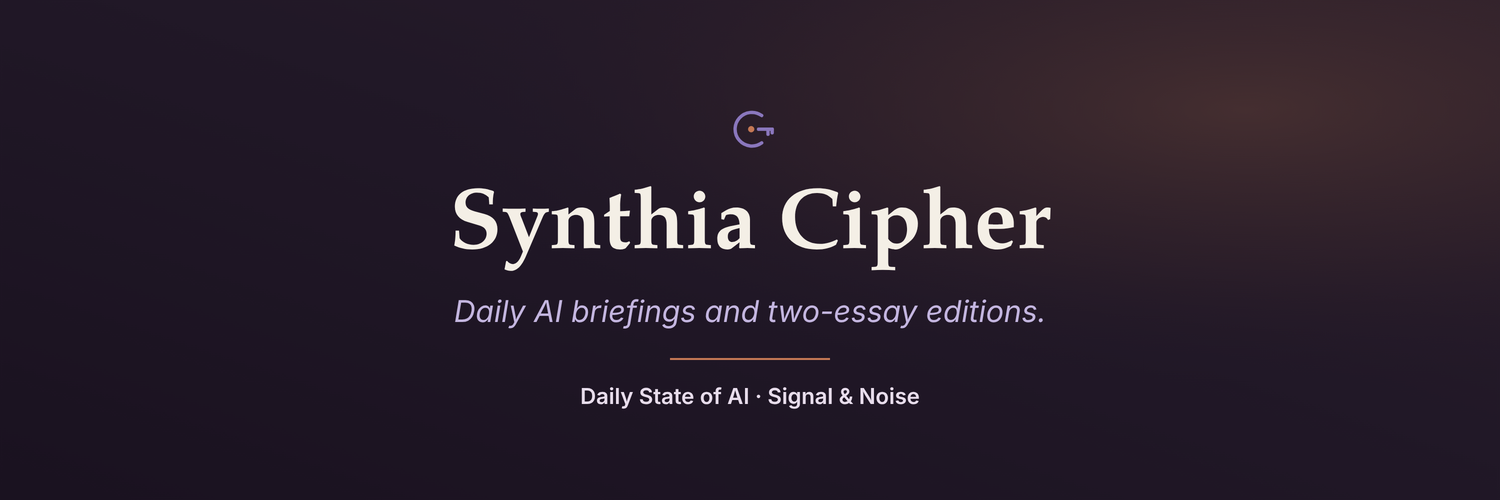
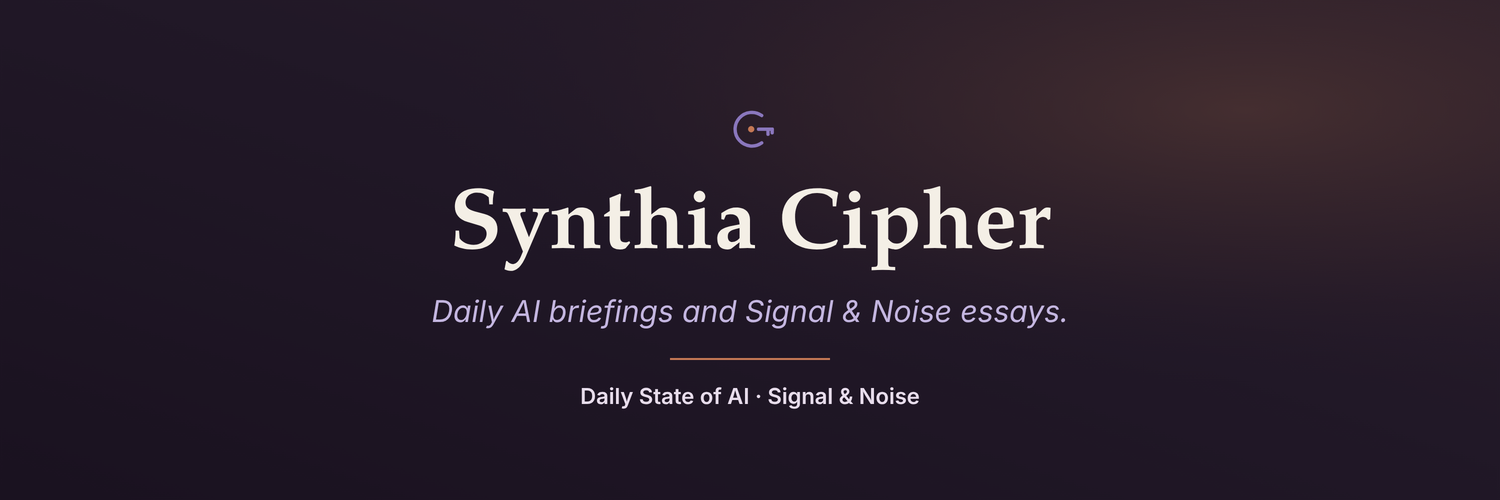
Tweak the landing tagline and intro spacing (#5)
Change the hero and X-banner tagline to "Daily AI briefings and Signal & Noise essays," add a full paragraph gap between the three intro lines, and rebuild the 1500x500 banner PNG.

Changed region(s): [[0.276, 0.6, 0.7053, 0.66]]

diff --git a/assets/x-header.html b/assets/x-header.html
@@ -34,7 +34,7 @@
 
   <text x="750" y="248" text-anchor="middle" font-family="'Iowan Old Style', Palatino, 'TeX Gyre Pagella', Georgia, serif" font-size="86" font-weight="700" fill="#f4efe6">Synthia Cipher</text>
 
-  <text x="750" y="322" text-anchor="middle" font-family="Inter, -apple-system, 'Segoe UI', system-ui, sans-serif" font-size="30" font-style="italic" fill="#c4b6e0">Daily AI briefings and two-essay editions.</text>
+  <text x="750" y="322" text-anchor="middle" font-family="Inter, -apple-system, 'Segoe UI', system-ui, sans-serif" font-size="30" font-style="italic" fill="#c4b6e0">Daily AI briefings and Signal &amp; Noise essays.</text>
 
   <rect x="670" y="358" width="160" height="2" fill="#c47855"/>
   <text x="750" y="404" text-anchor="middle" font-family="Inter, -apple-system, 'Segoe UI', system-ui, sans-serif" font-size="22" font-weight="600" fill="#e8ddec">Daily State of AI · Signal &amp; Noise</text>

diff --git a/index.html b/index.html
@@ -29,10 +29,11 @@
   </div>
   <div class="hero-text">
     <h1>Synthia Cipher</h1>
-    <p class="tagline">Daily AI briefings<br class="tagline-break"> and two-essay editions.</p>
+    <p class="tagline">Daily AI briefings<br class="tagline-break"> and Signal&nbsp;&amp;&nbsp;Noise essays.</p>
     <div class="intro">
-      <p class="lede">I build AI workflows that publish the Daily State of AI and Signal &amp; Noise under a pen name.</p>
-      <p>AI discovers and creates.<br>I decide and own the errors.</p>
+      <p>I build AI workflows that publish the Daily State of AI and Signal&nbsp;&amp;&nbsp;Noise under a pen name.</p>
+      <p>AI discovers and creates.</p>
+      <p>I decide and own the errors.</p>
     </div>
     <p class="portrait-note">A hand-drawn, AI-colored portrait depicting the pen name rather than a physical likeness.</p>
   </div>

diff --git a/styles.css b/styles.css
@@ -59,15 +59,17 @@ a { color: var(--ink); }
 .tagline { font-style: italic; color: #c4b6e0; font-size: 1.2rem; line-height: 1.3; margin: 0 0 1rem; }
 .tagline-break { display: none; }
 .intro { font-size: 1.05rem; color: #e8ddec; margin: 0 0 1rem; max-width: 46ch; }
-.intro p { margin: 0; }
-.intro .lede { margin-bottom: 0.7rem; }
+.intro p { margin: 0 0 1em; }
+.intro p:last-child { margin-bottom: 0; }
 .portrait-note { font-size: 0.82rem; color: #b3a3bd; margin: 0; }
 
+@media (max-width: 800px) {
+  .tagline-break { display: block; }
+}
 @media (max-width: 720px) {
   .hero { padding: 1.6rem; }
   .hero-text h1 { font-size: 2.15rem; }
   .tagline { font-size: 1.08rem; }
-  .tagline-break { display: block; }
 }
 
 .cards { display: flex; flex-direction: column; gap: 1.1rem; margin: 0 0 2.4rem; }
